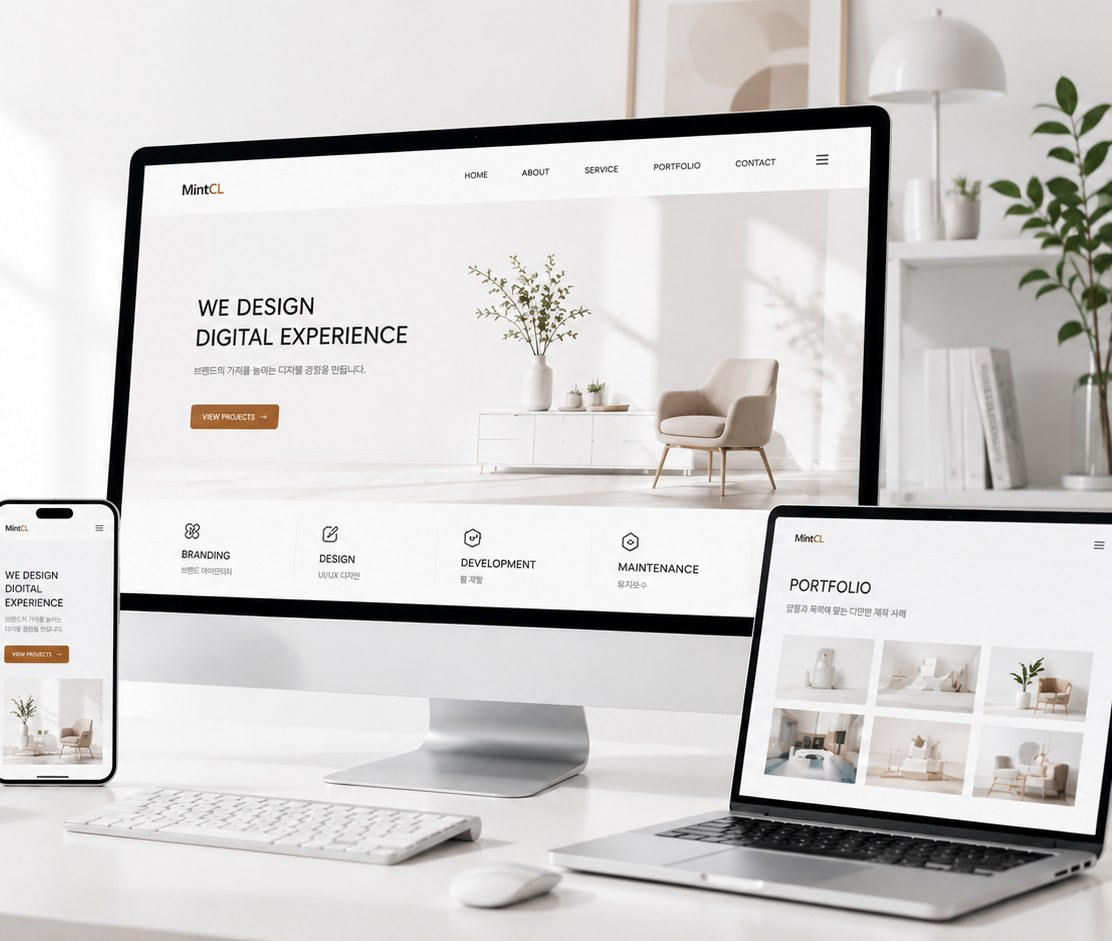
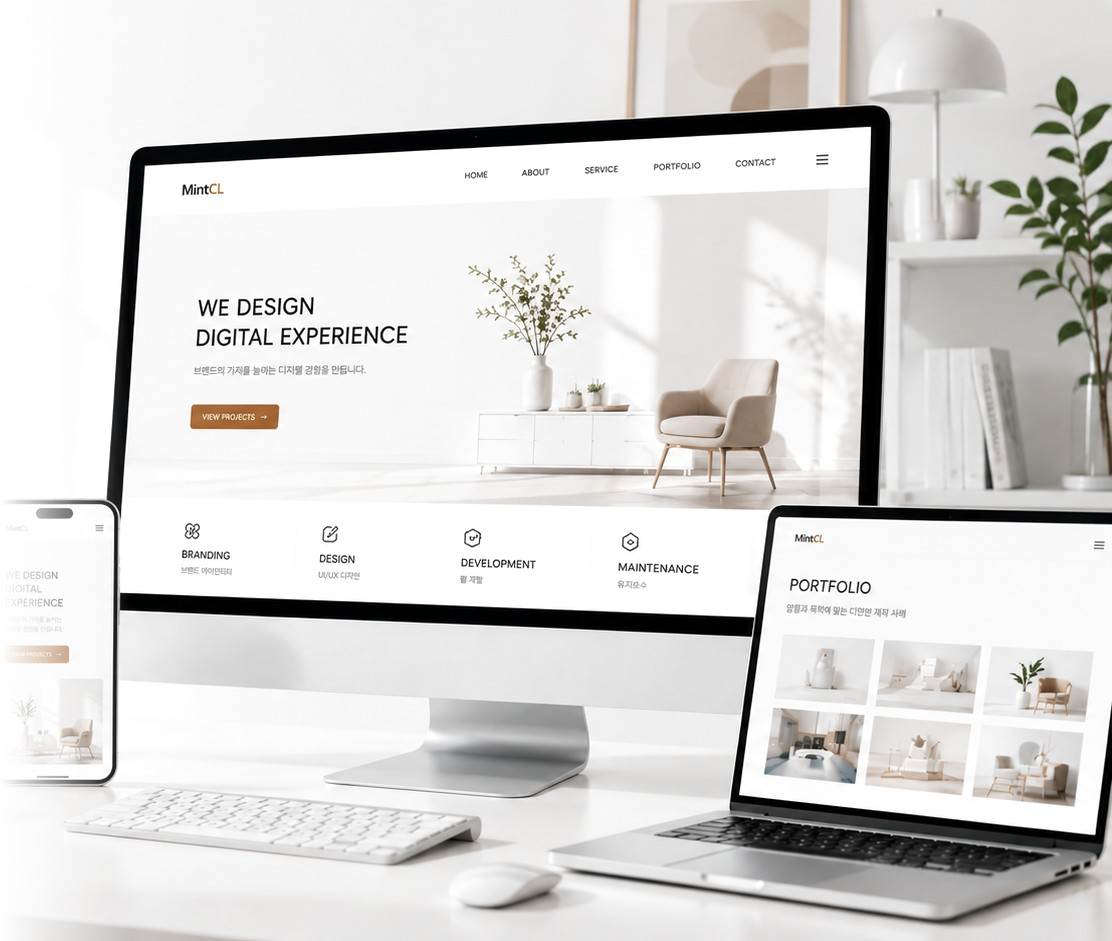
Polish hero photo, emphasize about-page stats, show 8 samples per page
Re-edit the hero device photo with a feathered left edge so it blends
into the text panel instead of a hard seam. Bump the about-page stat
numbers to a bolder display weight, and raise the portfolio page size
from 6 to 8 cards per page.

Changed region(s): [[0.0, 0.4315, 0.1223, 0.7088], [0.0, 0.7396, 0.1223, 0.8937], [0.0, 0.9554, 0.0917, 1.0]]

diff --git a/src/pages/About.tsx b/src/pages/About.tsx
@@ -63,7 +63,7 @@ export default function About() {
       <div className="grid gap-6 sm:grid-cols-3 border-y border-border/80 py-8">
         {STAT_ITEMS.map((stat) => (
           <div key={stat.label} className="space-y-1">
-            <p className="text-2xl sm:text-3xl font-semibold text-primary font-mono">{stat.value}</p>
+            <p className="text-3xl sm:text-4xl font-extrabold tracking-tight text-primary">{stat.value}</p>
             <p className="text-xs sm:text-sm text-muted-foreground font-medium">{stat.label}</p>
           </div>
         ))}

diff --git a/src/pages/Samples.tsx b/src/pages/Samples.tsx
@@ -6,7 +6,7 @@ import { SampleMarquee } from "@/components/sections/SampleMarquee";
 import { SAMPLES } from "@/lib/samples";
 import { usePageTitle } from "@/hooks/usePageTitle";
 
-const PAGE_SIZE = 6;
+const PAGE_SIZE = 8;
 
 export default function Samples() {
   const [page, setPage] = useState(1);
